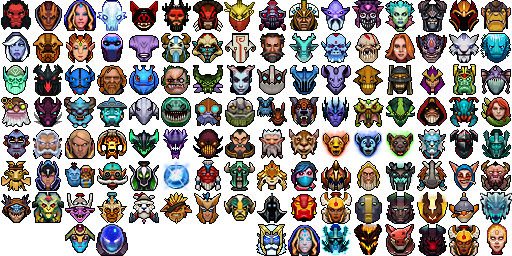
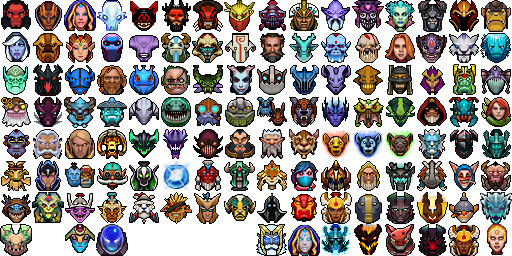
Add Underlord

Changed region(s): [[0.0, 0.875, 0.0625, 1.0]]

diff --git a/demo.html b/demo.html
@@ -629,6 +629,11 @@
             <td>arc_warden, npc_dota_hero_arc_warden, hero-113</td>
         </tr>
         
+        <tr>
+            <td><i class="d2mh abyssal_underlord"></i></td>
+            <td>abyssal_underlord, npc_dota_hero_abyssal_underlord, underlord, hero-108</td>
+        </tr>
+        
         </table>
     </body>
 </html>

diff --git a/assets/stylesheets/dota2minimapheroes.css b/assets/stylesheets/dota2minimapheroes.css
@@ -493,3 +493,7 @@
 .d2mh.arc_warden, .d2mh.npc_dota_hero_arc_warden, .d2mh.hero-113 { 
     background-position: -96px -224px;
 }
+
+.d2mh.abyssal_underlord, .d2mh.npc_dota_hero_abyssal_underlord, .d2mh.underlord, .d2mh.hero-108 { 
+    background-position: -0px -224px;
+}
